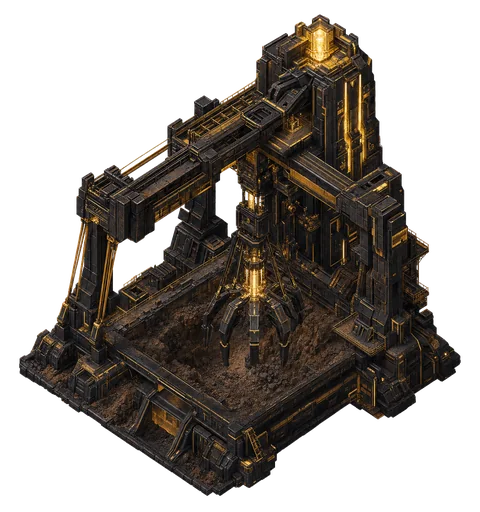
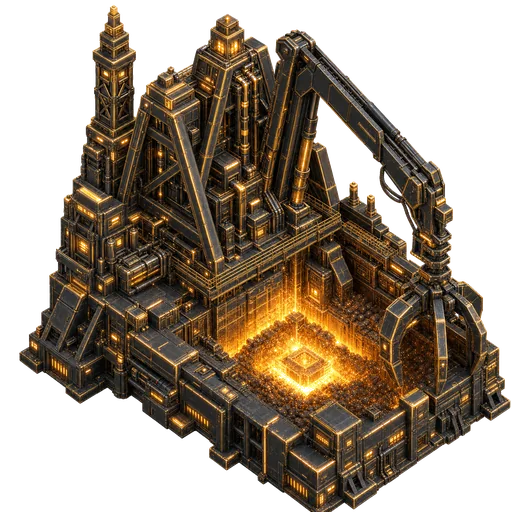
THE YARD evolution: switch to chained img2img stages — t0 dirt-pit now grows L1→L2→L3→L4 (each level generated from the previous render: bare rig → molten pit → bigger core → monument). FULL_CHAIN gate; other tiers on 2-stage until chained. Preview sheet for review.

diff --git a/js/evolution.js b/js/evolution.js
@@ -14,8 +14,11 @@ export function stageFor(copies) {
 }
 export function stageClass(copies) { return "stage-" + stageFor(copies); }
 
-// stage 0|1 → the small rig render; stage 2|3 → the monumental refinery render
+// tiers with the full 4-stage img2img chain (each level grown from the previous render).
+// others use the 2-stage set (s1 base + s4 monument) until their chain is generated.
+const FULL_CHAIN = new Set(["t0"]);
 export function artSrc(lineId, copies) {
   const st = stageFor(copies);
+  if (FULL_CHAIN.has(lineId)) return `assets/iso/${lineId}_s${st + 1}.webp`;
   return `assets/iso/${lineId}_${st >= 2 ? "s4" : "s1"}.webp`;
 }